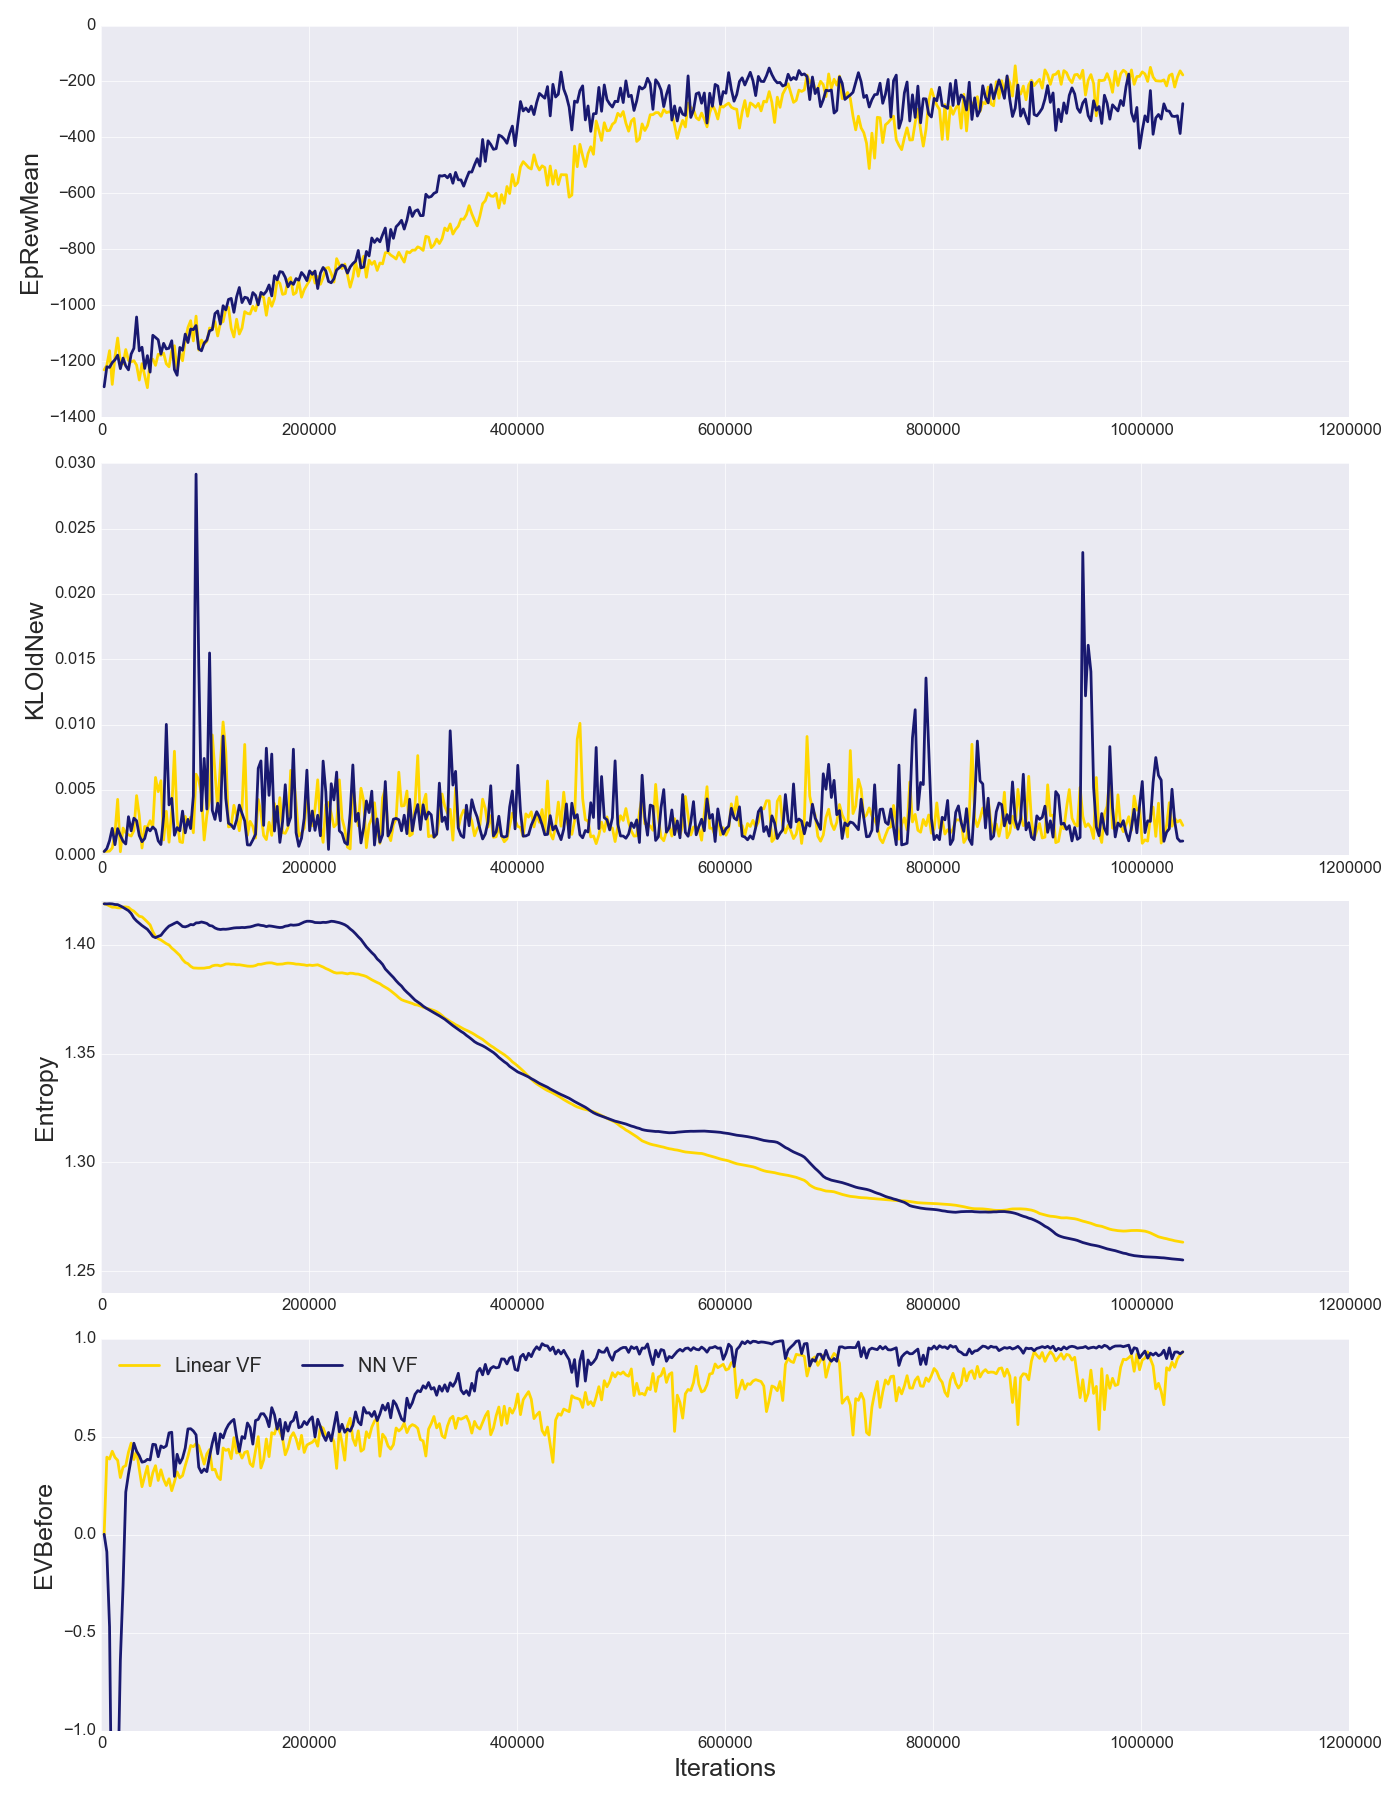
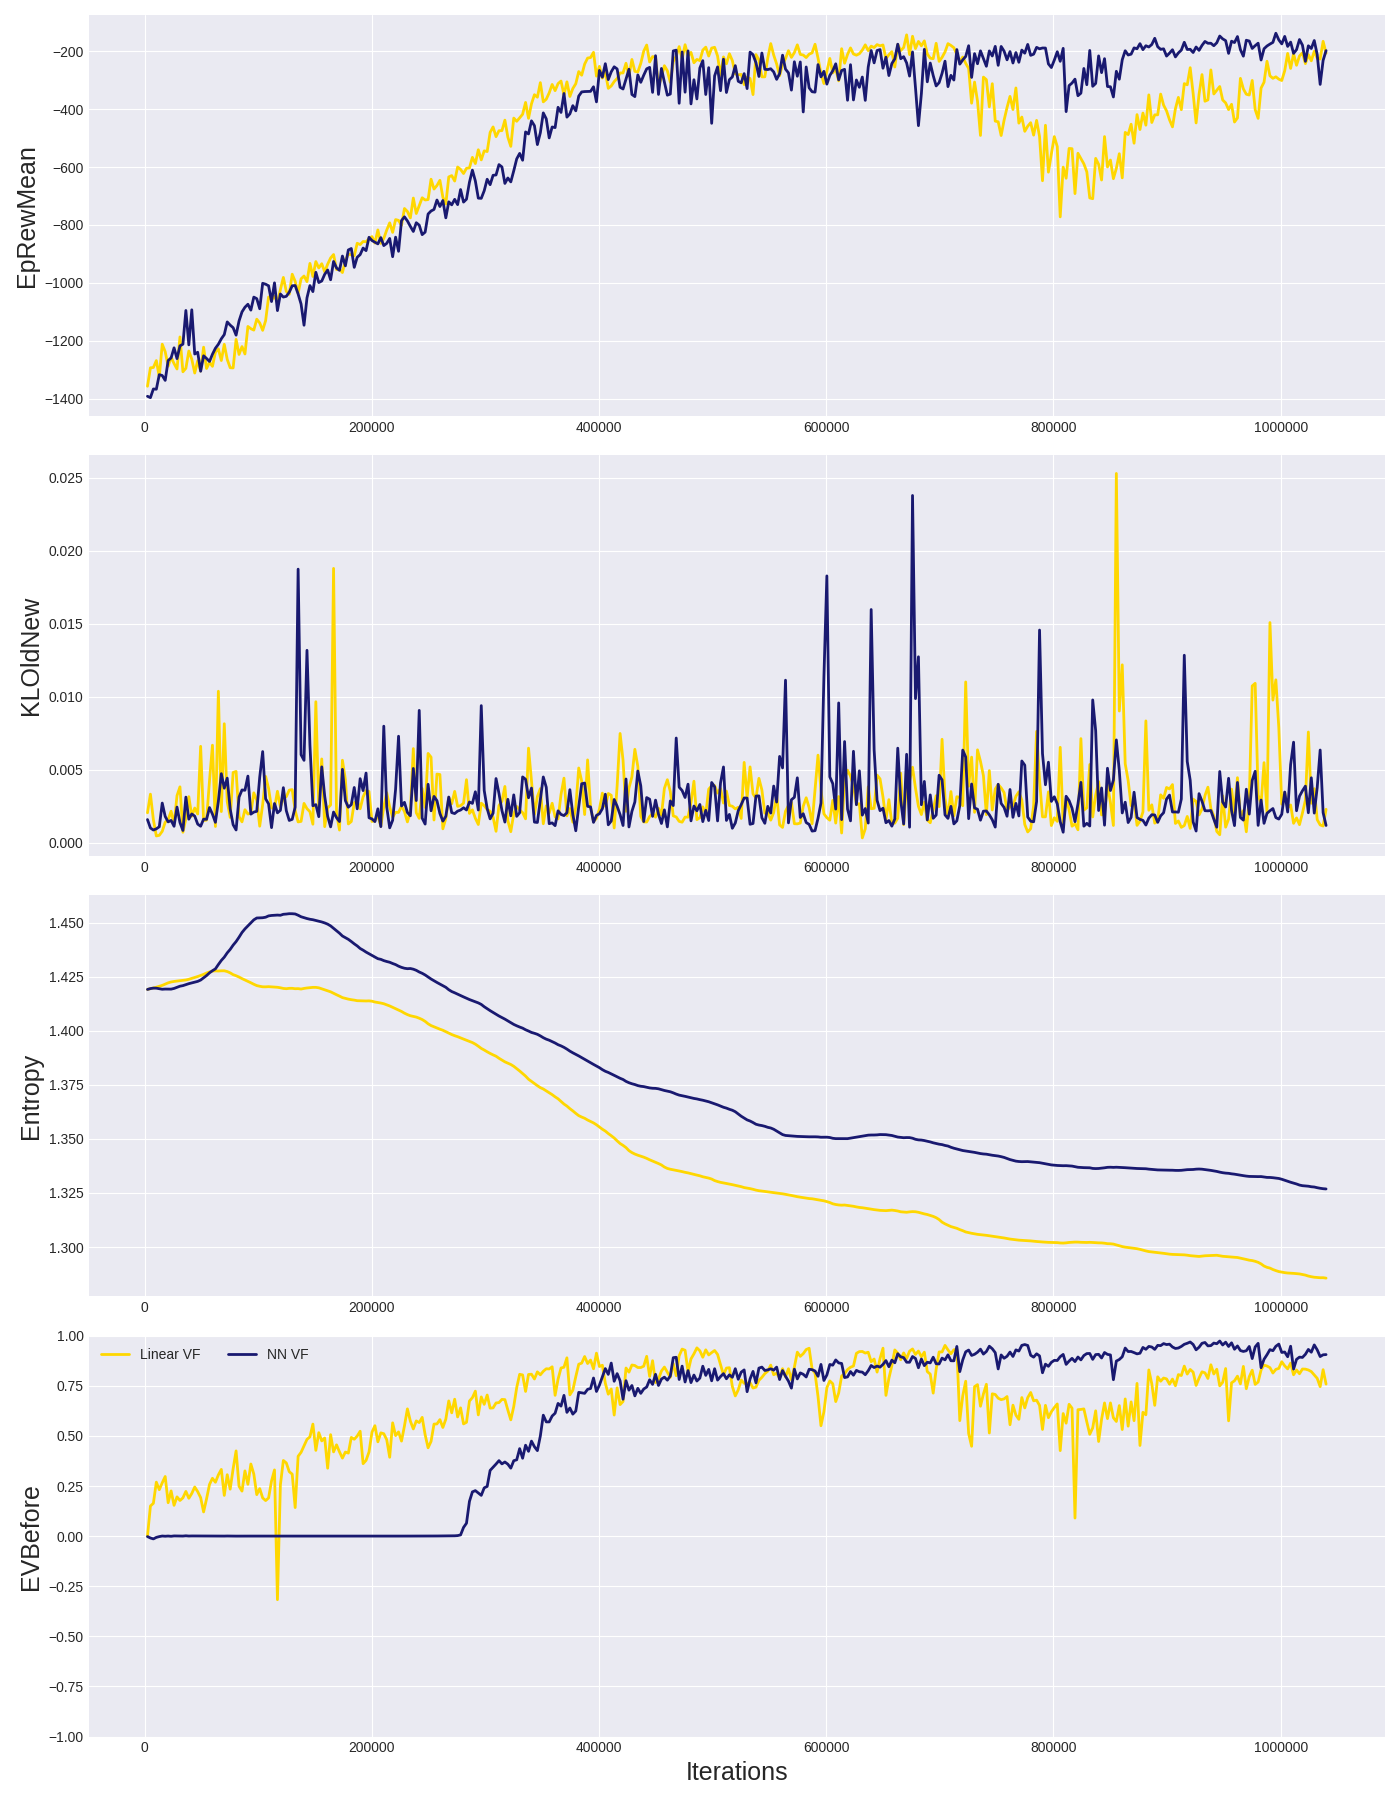
Well, got better Pendulum results. Apparently ...
using ReLUs with 32 is much better than tanh with 50 (with two hidden layers).

diff --git a/utils/policies.py b/utils/policies.py
@@ -137,13 +137,13 @@ class GaussianPolicy(StochasticPolicy):
         # The policy network and the logits, which are the mean of a Gaussian.
         # Then don't forget to make an "old" version of that for KL divergences.
         self.hidden1 = layers.fully_connected(self.ob_no, 
-                num_outputs=50,
+                num_outputs=32,
                 weights_initializer=layers.xavier_initializer(uniform=True),
-                activation_fn=tf.nn.tanh)
+                activation_fn=tf.nn.relu)
         self.hidden2 = layers.fully_connected(self.hidden1, 
-                num_outputs=50,
+                num_outputs=32,
                 weights_initializer=layers.xavier_initializer(uniform=True),
-                activation_fn=tf.nn.tanh)
+                activation_fn=tf.nn.relu)
         self.mean_na = layers.fully_connected(self.hidden2, 
                 num_outputs=ac_dim,
                 weights_initializer=layers.xavier_initializer(uniform=True),

diff --git a/ddpg/README.md b/ddpg/README.md
@@ -1,4 +1,11 @@
 # Deep Deterministic Policy Gradients
 
 In progress ... first  let me get the VPG and DPG repositories sorted, but I
-have a good idea of what to write here.
+have a good idea of what to write here. Or should I just skip DPG entirely?
+
+Some useful references (in addition to the original paper):
+
+- http://pemami4911.github.io/blog/2016/08/21/ddpg-rl.html
+- https://github.com/rmst/ddpg
+- https://github.com/openai/rllab
+- https://github.com/yukezhu/tensorflow-reinforce
